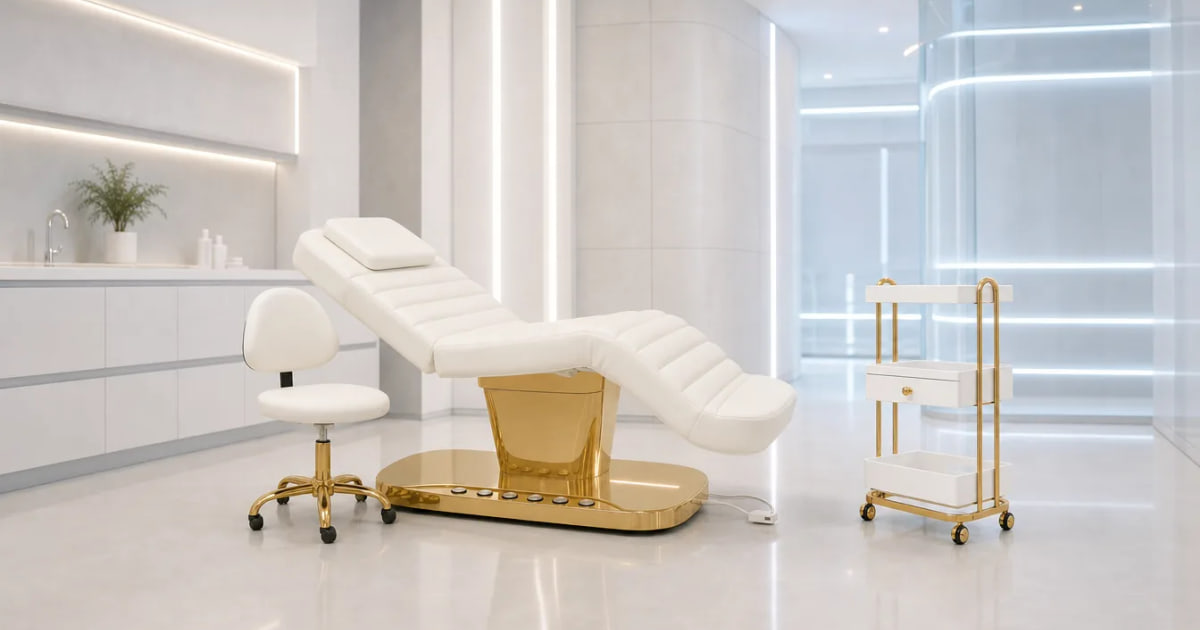
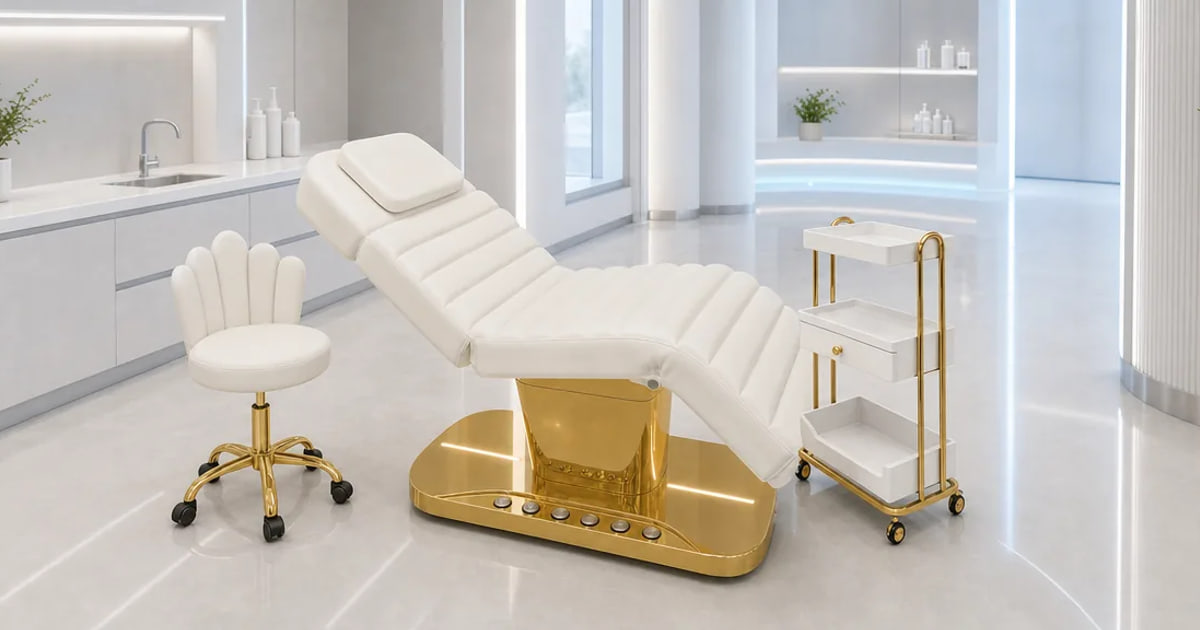
cambios 28-08 1

diff --git a/assets/css/main.css b/assets/css/main.css
@@ -763,6 +763,10 @@ body > section:first-of-type {
   margin: 0 auto;
 }
 
+.bloque-showroom-bajada {
+  max-width: 60ch;
+}
+
 .showroom-grid {
   display: grid;
   grid-template-columns: 1fr 1fr;
@@ -772,16 +776,39 @@ body > section:first-of-type {
   margin: var(--space-md) 0 0;
 }
 
+/* Columna: el body crece y empuja el CTA al piso, asi las dos cards
+   terminan con el boton sobre la misma linea aunque el texto cambie. */
 .showroom-card {
   background: var(--color-blanco);
-  border-radius: 10px;
-  box-shadow: 0 2px 8px rgba(0, 0, 0, 0.06);
+  border-radius: 14px;
+  box-shadow: 0 2px 10px rgba(10, 41, 86, 0.07);
   /* La imagen sangra hasta el borde: overflow recorta contra el radio. */
+  overflow: hidden;
+  display: flex;
+  flex-direction: column;
+  transition: box-shadow var(--dur-ui) var(--ease-out);
+}
+
+/* Sin hover-lift a proposito, igual que .beneficio-card: la card entera no
+   es clickeable, el unico target es el CTA. La sombra y el zoom alcanzan
+   para que responda sin prometer un click que no existe. */
+@media (hover: hover) and (pointer: fine) {
+  .showroom-card:hover {
+    box-shadow: 0 14px 34px rgba(10, 41, 86, 0.16);
+  }
+}
+
+/* La foto y el nombre del barrio comparten caja: el titulo va montado sobre
+   la imagen y el degradado navy le sostiene el contraste. */
+.showroom-card-media {
+  position: relative;
   overflow: hidden;
 }
 
-/* Las dos fotos de origen son cuadradas (2000² y 510²). Se recortan a 4:3
-   con object-fit para que la card no quede desproporcionadamente alta. */
+/* Las dos fotos de origen son 16:9 (1600x900) y usan todo el ancho del
+   encuadre: la card respeta esa proporcion en vez de recortarlas a 4:3.
+   object-fit: cover queda como red de seguridad si alguna foto futura
+   entra con otra relacion. */
 .showroom-card-imagen {
   display: block;
   width: 100%;
@@ -789,17 +816,116 @@ body > section:first-of-type {
      como presentational hint y fijan la altura, dejando el aspect-ratio sin
      efecto. Sin esto la card renderiza con la altura cruda de la imagen. */
   height: auto;
-  aspect-ratio: 4 / 3;
+  aspect-ratio: 16 / 9;
   object-fit: cover;
+  transition: transform 400ms var(--ease-out);
+}
+
+@media (hover: hover) and (pointer: fine) {
+  .showroom-card:hover .showroom-card-imagen {
+    transform: scale(1.05);
+  }
+}
+
+/* Degradado hasta 0.9 abajo: las dos fotos tienen pared clara justo donde
+   cae el titulo, con menos opacidad el blanco no sostiene AA. Arranca en 45%
+   para no ensuciar la mitad superior de la foto. */
+.showroom-card-media::after {
+  content: "";
+  position: absolute;
+  inset: 0;
+  background: linear-gradient(
+    to bottom,
+    rgba(10, 41, 86, 0) 45%,
+    rgba(10, 41, 86, 0.90) 100%
+  );
+  pointer-events: none;
+}
+
+.showroom-card-titulo {
+  position: absolute;
+  z-index: 1;
+  left: var(--space-md);
+  right: var(--space-md);
+  bottom: 1.1rem;
+  margin: 0;
+  display: flex;
+  align-items: baseline;
+  gap: 0.55rem;
+  color: var(--color-blanco);
+  /* Los h3 del sitio no tienen regla global: heredan el 1.17em del browser,
+     que sobre una foto de 4:3 se lee como una nota al pie. */
+  font-size: 1.55rem;
+  font-weight: 600;
+  letter-spacing: 0.5px;
+  line-height: 1.2;
+}
+
+.showroom-card-titulo i {
+  font-size: 0.8em;
+  color: var(--acero);
+}
+
+.showroom-card-zona {
+  font-family: var(--font-cuerpo);
+  font-size: 0.55em;
+  font-weight: 500;
+  letter-spacing: 2px;
+  opacity: 0.75;
 }
 
 .showroom-card-body {
   padding: var(--space-md);
+  display: flex;
+  flex-direction: column;
+  gap: 1.5rem;
+  flex: 1;
 }
 
-.showroom-card h3 {
+/* Aviso de turno previo: chip circular + texto, mismo lenguaje que
+   .beneficio-icono pero en escala de linea. */
+.showroom-card-nota {
+  display: flex;
+  align-items: flex-start;
+  gap: 0.85rem;
+  margin: 0;
+  font-size: 0.95em;
+  line-height: 1.55;
+}
+
+.showroom-card-nota i {
+  flex-shrink: 0;
+  width: 36px;
+  height: 36px;
+  border-radius: 50%;
+  background: var(--color-fondo);
   color: var(--color-principal);
-  margin-bottom: 0.5rem;
+  display: flex;
+  align-items: center;
+  justify-content: center;
+  font-size: 0.85em;
+  /* Alinea el circulo con la primera linea de texto, no con el bloque. */
+  margin-top: -0.15rem;
+}
+
+.showroom-card-nota strong {
+  color: var(--color-principal);
+}
+
+/* Navy pleno: el .cta-button-light que habia antes es navy al 10% y sobre la
+   card blanca practicamente no se despegaba del fondo. */
+.showroom-card-cta {
+  margin-top: auto;
+  display: flex;
+  align-items: center;
+  justify-content: center;
+  gap: 0.6rem;
+}
+
+@media (hover: hover) and (pointer: fine) {
+  .showroom-card-cta:hover {
+    filter: brightness(1.2);
+  }
 }
 
 /* ── BLOG ────────────────────────────────────── */
@@ -2698,6 +2824,16 @@ body > section:first-of-type {
   .showroom-grid {
     grid-template-columns: 1fr;
   }
+  .showroom-card-titulo {
+    left: var(--space-sm);
+    right: var(--space-sm);
+    bottom: 0.9rem;
+    font-size: 1.35rem;
+  }
+  .showroom-card-body {
+    padding: 1.5rem;
+    gap: 1.25rem;
+  }
 }
 
 @media (max-width: 768px) {
@@ -3105,6 +3241,7 @@ body > section:first-of-type {
   .linea-card:hover,
   .hub-producto-card:hover,
   .hub-producto-card:hover .hub-producto-imagen img,
+  .showroom-card:hover .showroom-card-imagen,
   .relacionado-card:hover,
   .producto-ficha:hover .camilla-img,
   .color-swatch:hover,

diff --git a/_lib/og-cards.js b/_lib/og-cards.js
@@ -80,7 +80,7 @@ const PAGINAS = [
   {
     salida: "luma-gold.jpg",
     tratamiento: "foto",
-    src: "images/luma-gold/luma-gold-consultorio.webp", // 1.79
+    src: "images/luma-gold/luma-gold-2.webp", // 2.33
     alt: "Set LUMA Gold en un consultorio: camilla eléctrica de base dorada, silla profesional y carrito LUMA Cart Gold.",
   },
   {
